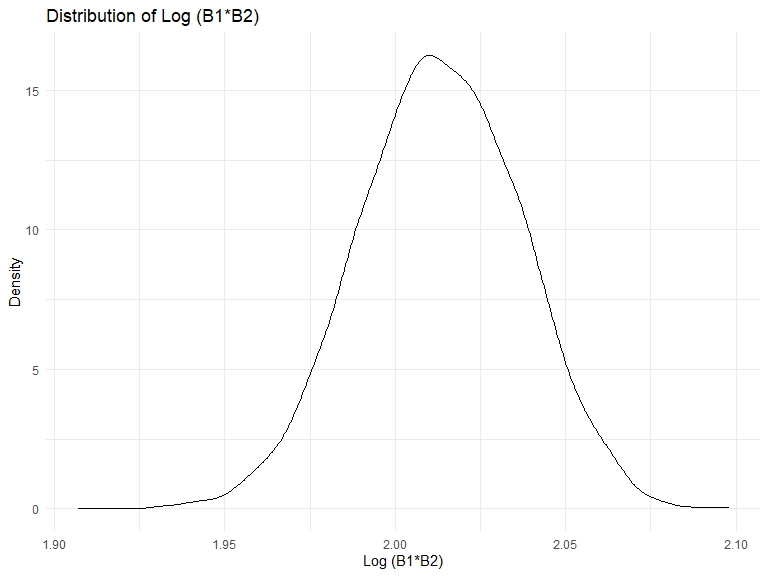
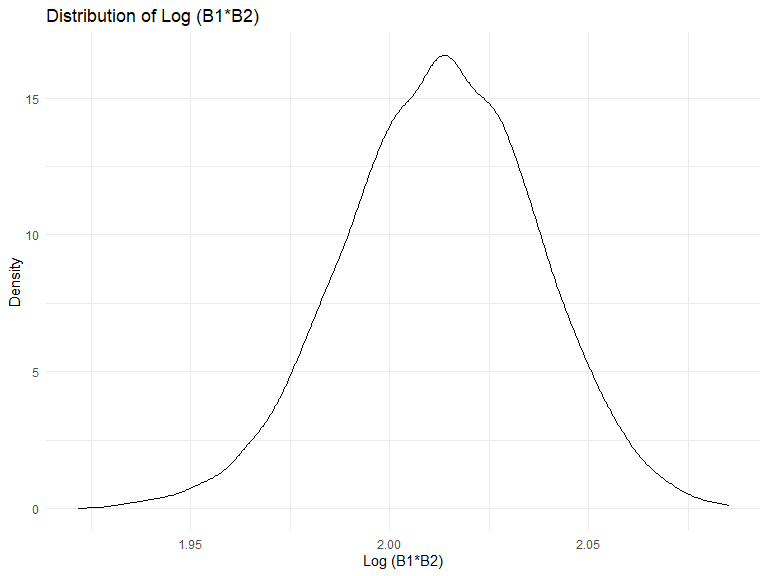
found 95% CI for r2 and LOG

diff --git a/p8105_hw6_sne2114.md b/p8105_hw6_sne2114.md
@@ -323,15 +323,15 @@ cv_df %>% pull(train) %>% .[[1]] %>% as_tibble
        babysex bhead blength   bwt delwt fincome frace gaweeks malform menarche
        <fct>   <dbl>   <dbl> <dbl> <dbl>   <dbl> <fct>   <dbl> <fct>      <dbl>
      1 2          34      51  3629   177      35 1        39.9 0             13
-     2 1          34      48  3062   156      65 2        25.9 0             14
-     3 2          36      50  3345   148      85 1        39.9 0             12
-     4 1          34      52  3062   157      55 1        40   0             14
-     5 2          34      52  3374   156       5 1        41.6 0             13
-     6 1          33      52  3374   129      55 1        40.7 0             12
+     2 2          36      50  3345   148      85 1        39.9 0             12
+     3 1          34      52  3062   157      55 1        40   0             14
+     4 2          33      46  2523   126      96 2        40.3 0             14
+     5 2          33      49  2778   140       5 1        37.4 0             12
+     6 1          36      52  3515   146      85 1        40.3 0             11
      7 1          33      50  3459   169      75 2        40.7 0             12
      8 2          35      51  3317   130      55 1        43.4 0             13
-     9 1          36      53  3629   147      75 1        41.3 0             11
-    10 1          35      51  3544   129      65 1        39.6 0             12
+     9 1          35      51  3459   146      55 1        39.4 0             12
+    10 2          35      48  3175   158      75 1        39.7 0             13
     # ... with 3,463 more rows, and 10 more variables: mheight <dbl>, momage <dbl>,
     #   mrace <fct>, parity <dbl>, pnumlbw <dbl>, pnumsga <dbl>, ppbmi <dbl>,
     #   ppwt <dbl>, smoken <dbl>, wtgain <dbl>
@@ -343,16 +343,16 @@ cv_df %>% pull(test) %>% .[[1]] %>% as_tibble
     # A tibble: 869 x 20
        babysex bhead blength   bwt delwt fincome frace gaweeks malform menarche
        <fct>   <dbl>   <dbl> <dbl> <dbl>   <dbl> <fct>   <dbl> <fct>      <dbl>
-     1 2          33      46  2523   126      96 2        40.3 0             14
-     2 2          33      49  2778   140       5 1        37.4 0             12
-     3 1          36      52  3515   146      85 1        40.3 0             11
-     4 1          35      51  3459   146      55 1        39.4 0             12
-     5 2          35      48  3175   158      75 1        39.7 0             13
-     6 2          35      57  3374   147      45 1        39.6 0             12
-     7 2          33      49  2948   129      25 1        41   0             13
-     8 1          38      53  3799   167      75 1        39.9 0             12
-     9 2          35      53  3600   141      35 1        42.3 0             14
-    10 1          35      52  3232   121      75 3        42.3 0             13
+     1 1          34      48  3062   156      65 2        25.9 0             14
+     2 2          34      52  3374   156       5 1        41.6 0             13
+     3 1          33      52  3374   129      55 1        40.7 0             12
+     4 1          35      56  3232   147      55 1        42.1 0             13
+     5 2          35      50  3175   140      85 2        40.6 0             14
+     6 2          35      51  3827   130      45 1        41.3 0             12
+     7 1          38      53  3799   167      75 1        39.9 0             12
+     8 1          34      52  3118   130      75 1        41   0             12
+     9 2          35      52  3487   121      45 1        39.9 0             11
+    10 1          34      52  3033   172      85 1        41.1 0             16
     # ... with 859 more rows, and 10 more variables: mheight <dbl>, momage <dbl>,
     #   mrace <fct>, parity <dbl>, pnumlbw <dbl>, pnumsga <dbl>, ppbmi <dbl>,
     #   ppwt <dbl>, smoken <dbl>, wtgain <dbl>
@@ -466,16 +466,16 @@ bootstrap_df
     # A tibble: 5,000 x 5
        strap_id r.squared intercept  tmin   LOG
        <chr>        <dbl>     <dbl> <dbl> <dbl>
-     1 0001         0.926      6.56  1.06  1.94
-     2 0002         0.896      7.49  1.02  2.03
-     3 0003         0.910      7.16  1.04  2.01
-     4 0004         0.916      7.10  1.05  2.01
-     5 0005         0.913      7.30  1.03  2.02
-     6 0006         0.915      7.03  1.05  2.00
-     7 0007         0.895      7.07  1.05  2.01
-     8 0008         0.912      7.24  1.04  2.02
-     9 0009         0.915      7.55  1.03  2.05
-    10 0010         0.916      7.07  1.06  2.01
+     1 0001         0.909      7.33  1.02  2.01
+     2 0002         0.926      6.98  1.06  2.00
+     3 0003         0.919      7.25  1.05  2.03
+     4 0004         0.916      6.95  1.08  2.01
+     5 0005         0.919      7.05  1.03  1.98
+     6 0006         0.920      7.07  1.05  2.00
+     7 0007         0.918      6.92  1.05  1.99
+     8 0008         0.909      7.44  1.01  2.02
+     9 0009         0.909      7.41  1.03  2.03
+    10 0010         0.915      7.31  1.02  2.01
     # ... with 4,990 more rows
 
 ``` r
@@ -501,3 +501,25 @@ bootstrap_df %>%
 ```
 
 <img src="p8105_hw6_sne2114_files/figure-gfm/unnamed-chunk-11-2.png" width="90%" />
+
+``` r
+bootstrap_df %>% 
+  pull(r.squared) %>% 
+  quantile(c(0.025, 0.975))
+```
+
+``` 
+     2.5%     97.5% 
+0.8942560 0.9273315 
+```
+
+``` r
+bootstrap_df %>% 
+  pull(LOG) %>% 
+  quantile(c(0.025, 0.975))
+```
+
+``` 
+    2.5%    97.5% 
+1.963808 2.058355 
+```
